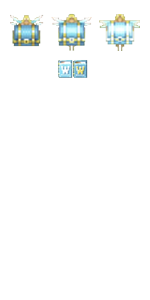
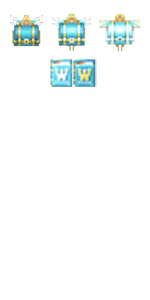
Cambios
-Agrandado el sprite de el libro para que se vea mejor
-Cambiada el typo de collision del libro
-Intento de corregir los pathings

diff --git a/Sorcer striker el bueno/Sorcer striker el bueno/Entities/Enemies/Enemy_CHEST.cpp b/Sorcer striker el bueno/Sorcer striker el bueno/Entities/Enemies/Enemy_CHEST.cpp
@@ -18,32 +18,40 @@ Enemy_CHESS::Enemy_CHESS(int x, int y) : Enemy(x, y) {
 	currentAnim = &blue;
 
 	// Path 1
-	path1.PushBack({ -1.0f, -0.5f }, 10);
-	path1.PushBack({ -1.0f, 0.0f }, 10);
-	path1.PushBack({ -0.5f, 0.5f }, 10);
-	path1.PushBack({ 0.0f, 1.0f }, 10);
-	path1.PushBack({ 0.5f, 0.5f }, 10);
-	path1.PushBack({ 1.0f, 0.0f }, 10);
-	path1.PushBack({ 1.0f, -0.5f }, 10);
-	path1.PushBack({ 1.0f, -1.0f }, 10);
 
-	// Path 2
-	path2.PushBack({ -0.5f, -1.0f }, 60); // velocidad reducida a 60
-	path2.PushBack({ -0.5f, -1.0f }, 30); // permanece en su lugar durante 30 milisegundos
-	path2.PushBack({ -0.5f, -2.0f }, 30); // se mueve hacia arriba durante 30 milisegundos
-	path2.PushBack({ -0.5f, -3.0f }, 60); // se mueve hacia arriba durante 60 milisegundos
-	path2.PushBack({ -0.5f, -2.0f }, 30); // se mueve hacia abajo durante 30 milisegundos
-	path2.PushBack({ -0.5f, -1.0f }, 60); // se mueve hacia abajo durante 60 milisegundos
+	pathchest.PushBack({ -1.0f, -0.5f }, 10);
+	pathchest.PushBack({ -0.9f, -0.8f }, 10);
+	pathchest.PushBack({ -0.8f, -0.2f }, 10);
+	pathchest.PushBack({ -0.7f, -1.0f }, 10);
+	pathchest.PushBack({ -0.6f, -0.4f }, 10);
+	pathchest.PushBack({ -0.5f, -0.9f }, 10);
+	pathchest.PushBack({ -0.4f, -0.3f }, 10);
+	pathchest.PushBack({ -0.3f, -1.0f }, 10);
+	pathchest.PushBack({ -0.2f, -0.5f }, 10);
+	pathchest.PushBack({ -0.1f, -0.1f }, 10);
+	pathchest.PushBack({ 0.0f, -0.6f }, 10);
+	pathchest.PushBack({ 0.1f, -0.2f }, 10);
+	pathchest.PushBack({ 0.2f, -0.8f }, 10);
+	pathchest.PushBack({ 0.3f, -0.4f }, 10);
+	pathchest.PushBack({ 0.4f, -0.9f }, 10);
+	pathchest.PushBack({ 0.5f, -0.3f }, 10);
+	pathchest.PushBack({ 0.6f, -1.0f }, 10);
+	pathchest.PushBack({ 0.7f, -0.5f }, 10);
+	pathchest.PushBack({ 0.8f, -0.1f }, 10);
+	pathchest.PushBack({ 0.9f, -0.6f }, 10);
+	pathchest.PushBack({ 1.0f, -0.2f }, 10);
+	pathchest.PushBack({ 1.0f, -1.0f }, 0);
 
-	currentPath = &path1;
+	currentPath = &pathchest;
 	collider = App->collisions->AddCollider({ 0, 0, 43, 39 }, Collider::Type::ENEMY, (Module*)App->enemies);
 }
 
 void Enemy_CHESS::Update() {
+	
 	if (!activePart2)
-		path1.Update();
+		pathchest.Update();
 	else
-		path2.Update();
+		pathchest.Update();
 
 	position = spawnPos + currentPath->GetRelativePosition();
 
@@ -56,19 +64,39 @@ void Enemy_CHESS::Update() {
 void Enemy_CHESS::OnCollision(Collider* c1) {
 	if (c1->type == Collider::Type::PLAYER_SHOT)
 	{
+		collider->type = Collider::Type::OBJECTCHEST;
 		// Change sprite
-		red.PushBack({ 58, 60, 14, 18 });
-		red.PushBack({ 74, 60, 14, 18 });
+		red.PushBack({ 49, 56, 25, 35 });
+		red.PushBack({ 73, 56, 25, 35 });
 		red.speed = 0.1f;
 		currentAnim = &red;
 
-		// Change path
-		currentPath = &path2;
+		////Change Collider type
+		collider->rect = { 0, 0, 25, 35 };
 
-		//Change Collider type
-		collider->rect = { 0, 0, 15, 20 };
+		pathchest.PushBack({ 0.0f, 0.5f }, 10);
+		pathchest.PushBack({ 0.0f, -2.0f }, 10);
+		pathchest.PushBack({ 0.0f, -2.5f }, 10);
+		pathchest.PushBack({ 0.0f, -2.0f }, 10);
+		pathchest.PushBack({ 0.0f, -1.5f }, 10);
+		pathchest.PushBack({ 0.0f, -2.0f }, 10);
+		pathchest.PushBack({ 0.0f, -2.5f }, 10);
+		pathchest.PushBack({ 0.0f, -2.0f }, 10);
+		pathchest.PushBack({ 0.0f, -1.5f }, 10);
+		pathchest.PushBack({ 0.0f, -2.0f }, 10);
+		pathchest.PushBack({ 0.0f, -2.5f }, 10);
+		pathchest.PushBack({ 0.0f, -2.0f }, 10);
+		pathchest.PushBack({ 0.0f, -1.5f }, 10);
+		pathchest.PushBack({ 0.0f, -2.0f }, 10);
+		pathchest.PushBack({ 0.0f, -2.5f }, 10);
+		pathchest.PushBack({ 0.0f, -2.0f }, 10);
+		pathchest.PushBack({ 0.0f, -1.5f }, 10);
+		pathchest.PushBack({ 0.0f, -2.0f }, 10);
+		pathchest.PushBack({ 0.0f, -2.5f }, 10);
+		pathchest.PushBack({ 0.0f, -2.0f }, 10);
+		pathchest.PushBack({ 0.0f, 0.5f }, 10);
 
-		// Active path2 update
+		//// Active path2 update
 		activePart2 = true;
 	}
 }

diff --git a/Sorcer striker el bueno/Sorcer striker el bueno/Modules/Gameplay/ModulePlayer.cpp b/Sorcer striker el bueno/Sorcer striker el bueno/Modules/Gameplay/ModulePlayer.cpp
@@ -155,7 +155,7 @@ void ModulePlayer::OnCollision(Collider* c1, Collider* c2) {
 		destroyed = true;
 		lives--;
 	}
-	else if (c1->Intersects(c2->rect) || c2->Intersects(c1->rect) && c1->type == Collider::Type::PLAYER || c2->type == Collider::Type::ENEMY)
+	else if (c1->Intersects(c2->rect) || c2->Intersects(c1->rect) && c1->type == Collider::Type::PLAYER || c2->type == Collider::Type::OBJECTCHEST)
 	{
 		// Change sprite
 		idleAnim.PushBack({ 1595, 63, 62, 43 });

diff --git a/Sorcer striker el bueno/Sorcer striker el bueno/Modules/Core/ModuleCollisions.cpp b/Sorcer striker el bueno/Sorcer striker el bueno/Modules/Core/ModuleCollisions.cpp
@@ -150,6 +150,8 @@ void ModuleCollisions::DebugDraw() {
 			App->render->DrawQuad(colliders[i]->rect, 0, 255, 255, alpha); break;
 		case Collider::Type::WALL_PLAYER: // magenta
 			App->render->DrawQuad(colliders[i]->rect, 0, 255, 255, alpha); break;
+		case Collider::Type::OBJECTCHEST: // magenta
+			App->render->DrawQuad(colliders[i]->rect, 0, 255, 255, alpha); break;
 		}
 	}
 }

diff --git a/Sorcer striker el bueno/Sorcer striker el bueno/Entities/Enemies/Enemy_CHEST.h b/Sorcer striker el bueno/Sorcer striker el bueno/Entities/Enemies/Enemy_CHEST.h
@@ -16,14 +16,13 @@ public:
 	void Update() override;
 	//void Draw() override;
 
-	void OnCollision(Collider* collider)override;
+	void OnCollision(Collider* c1);
 
 
 private: //BROWNSHIP
 	// A set of steps that define the position in the screen
 		// And an animation for each step
-	Path path1;
-	Path path2;
+	Path pathchest;
 	Path* currentPath;
 	bool activePart2 = false;
 
